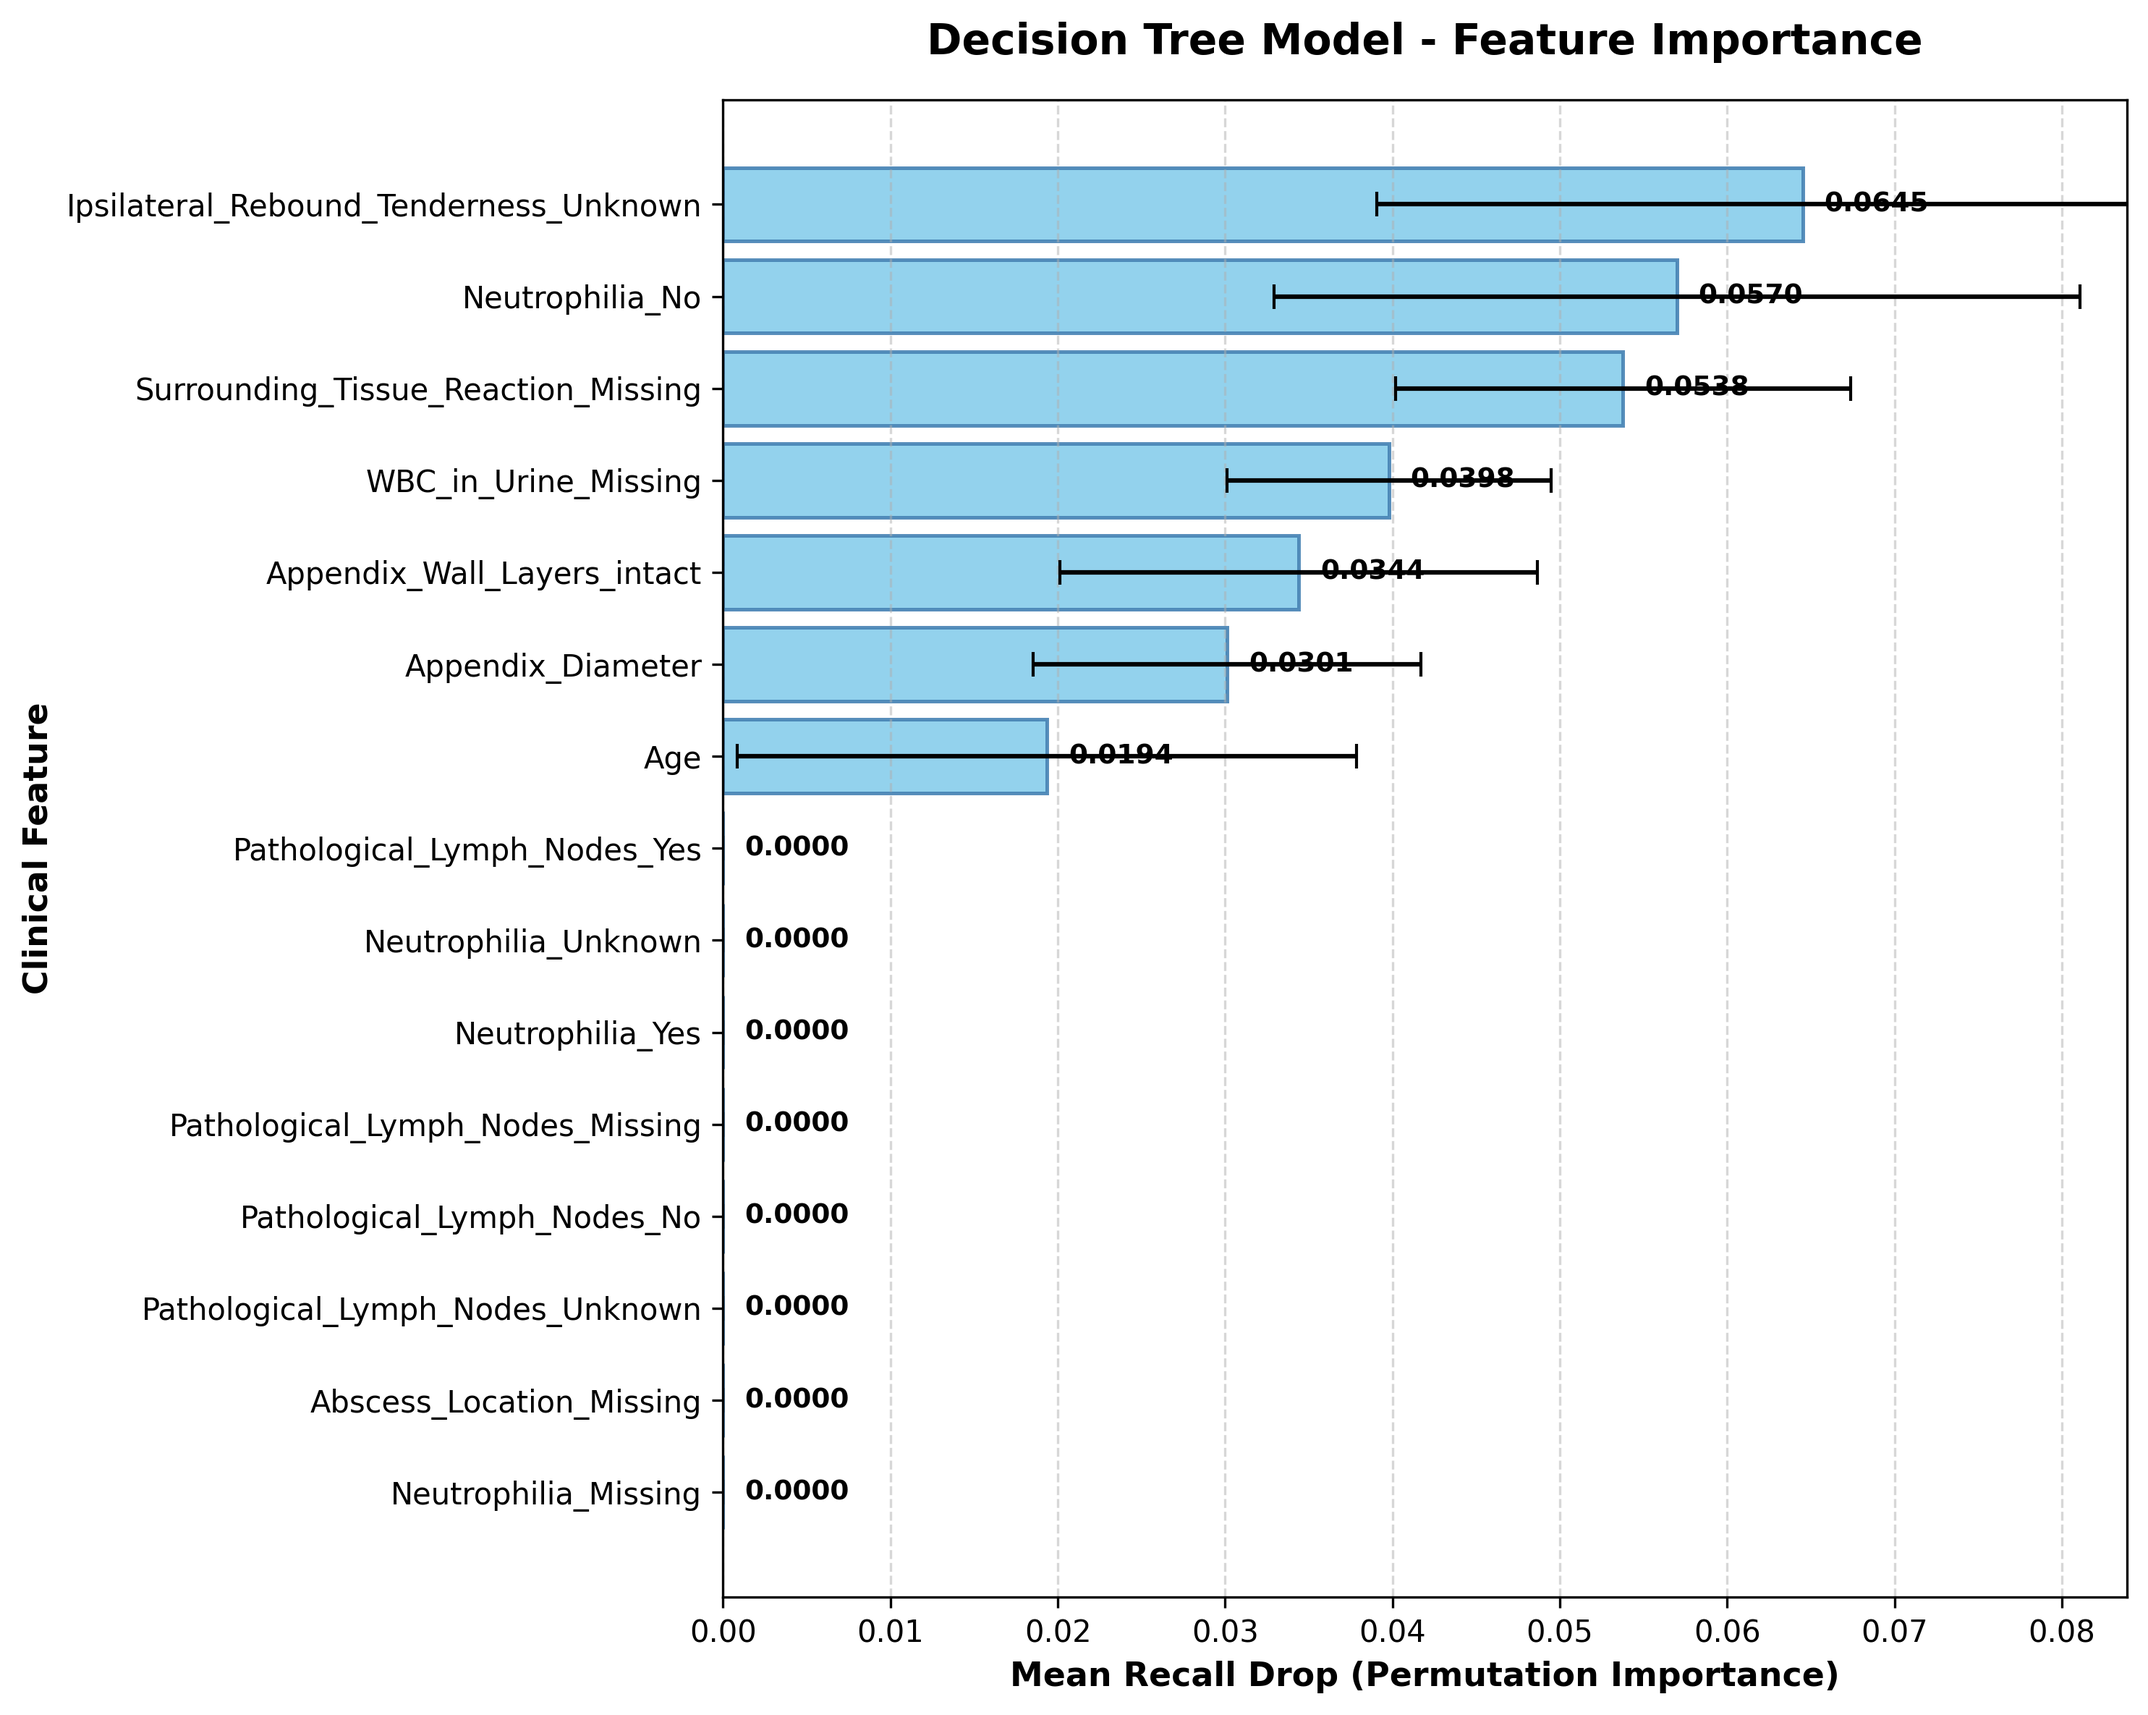
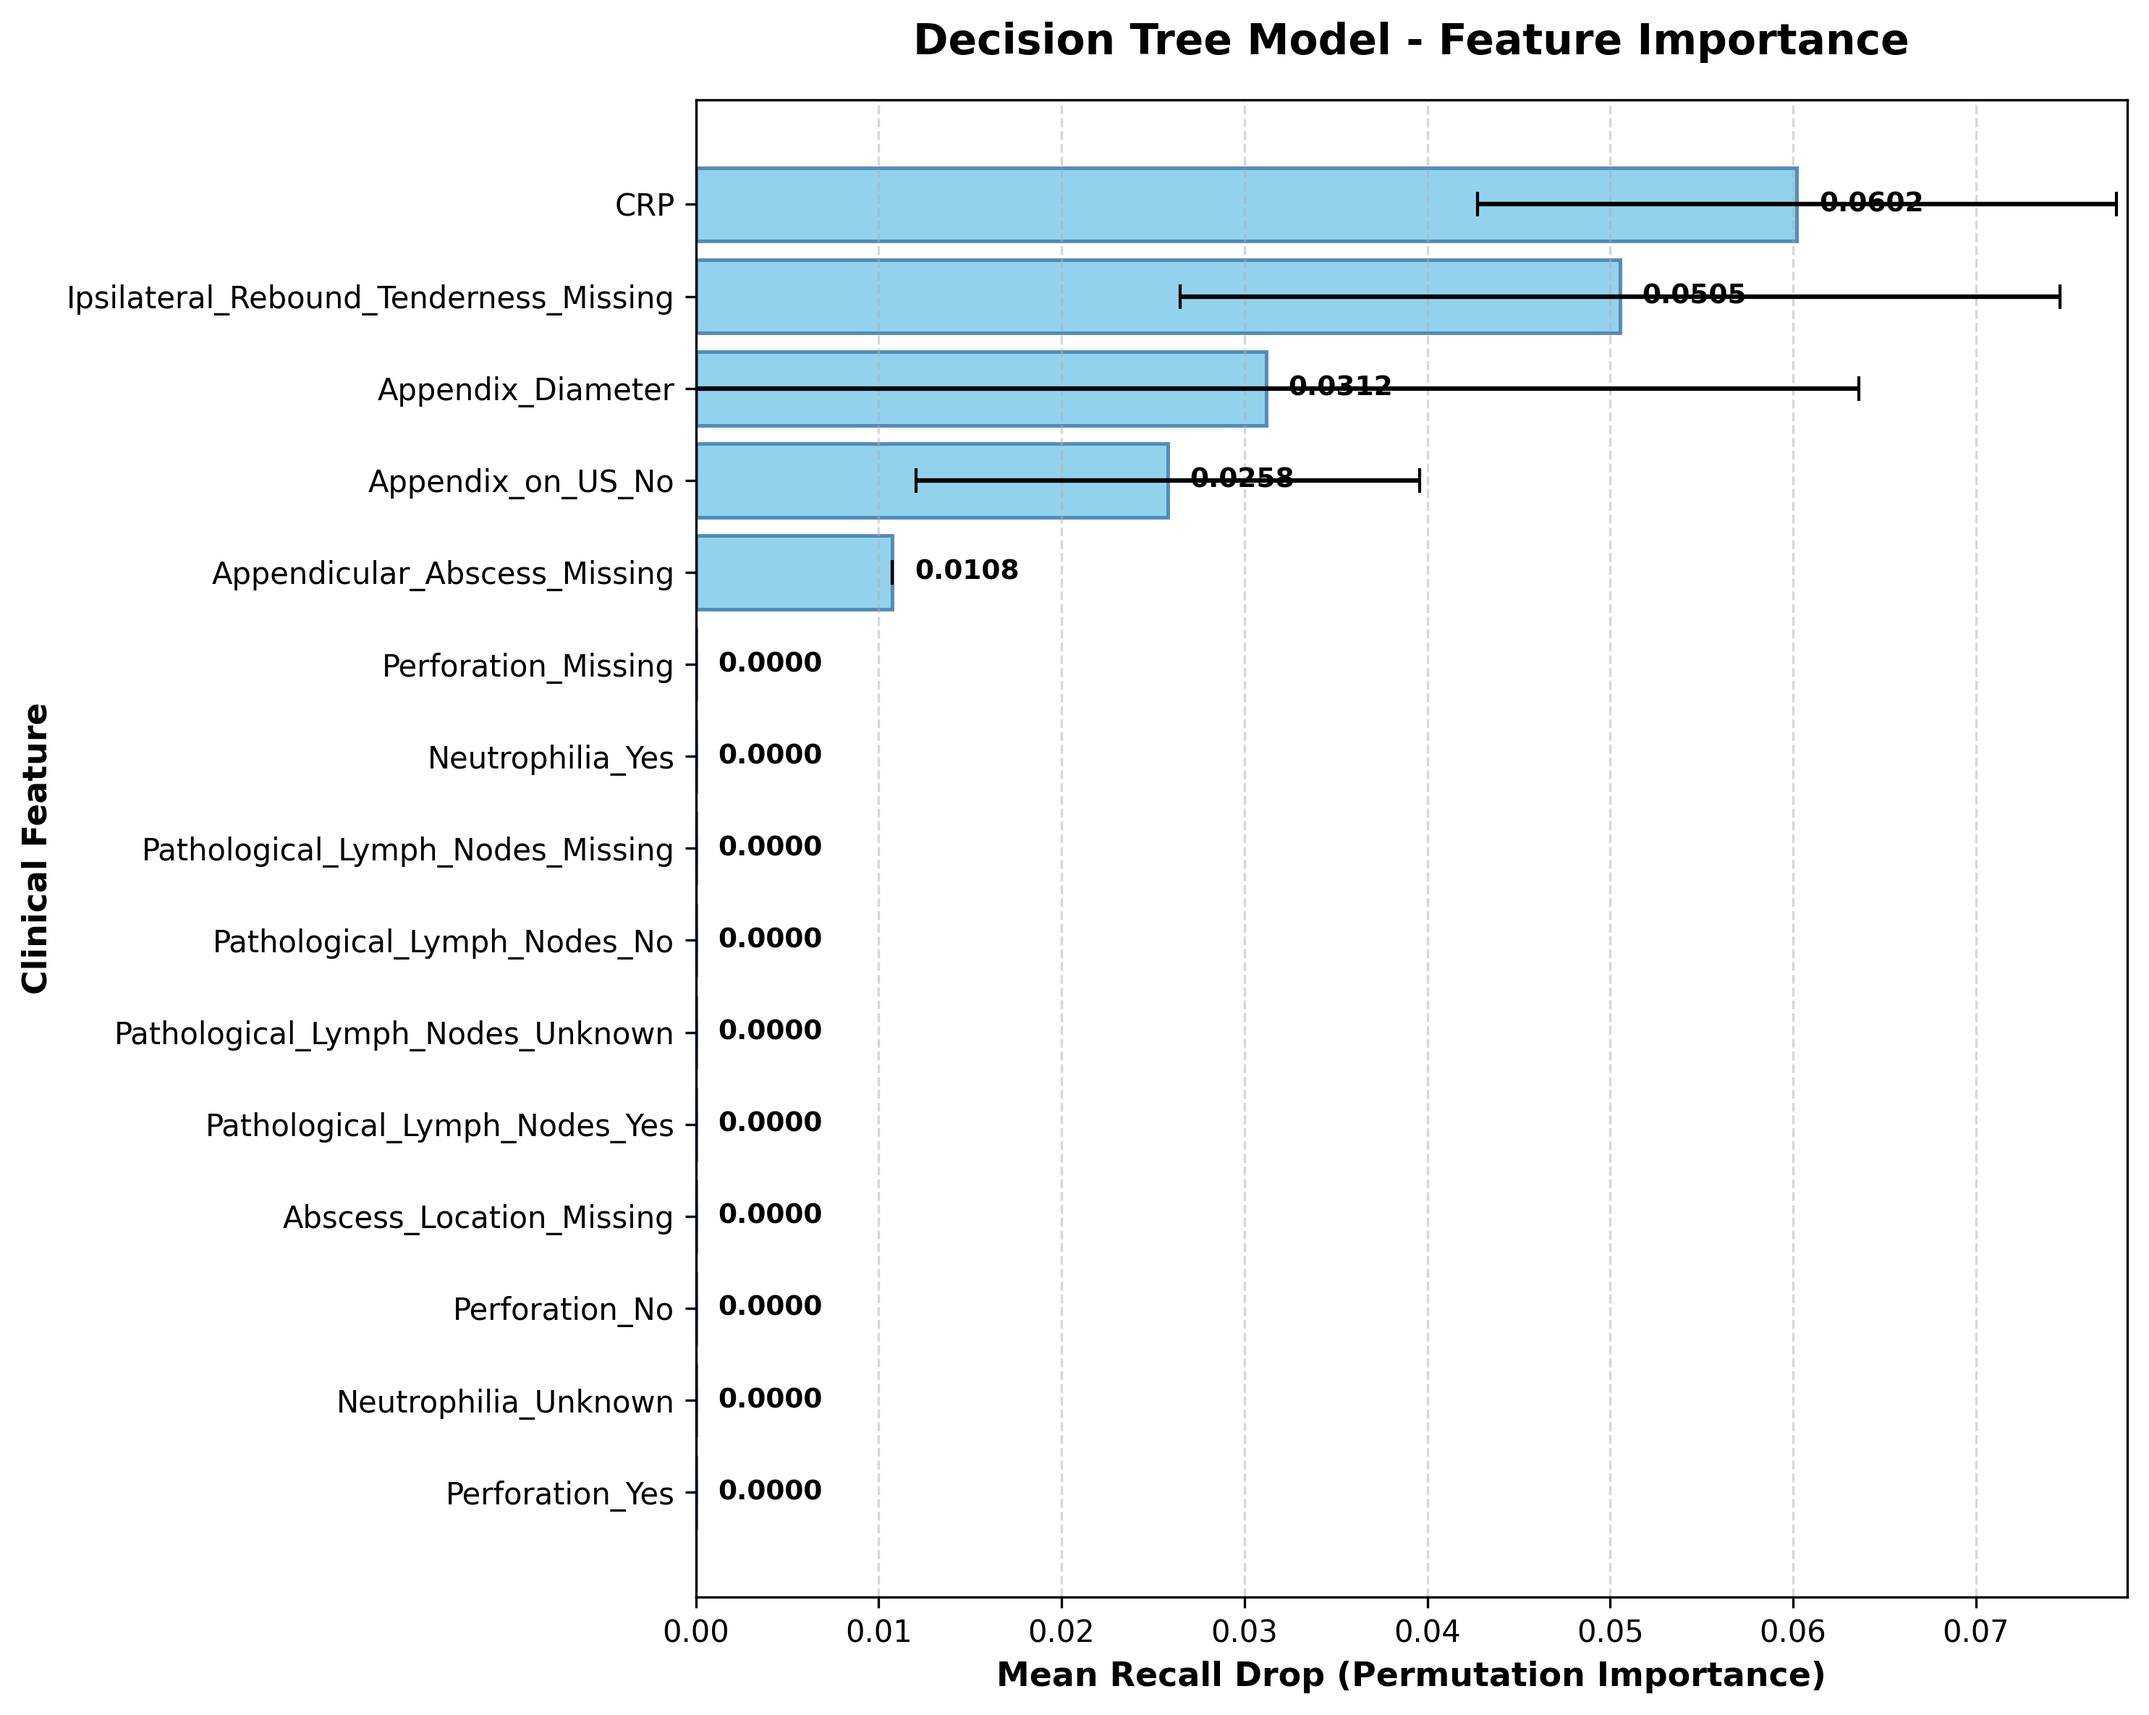
Removed Split Restriction and Increased Max Depth for Decision Trees

diff --git a/05_Decision Trees/decision_tree_model.py b/05_Decision Trees/decision_tree_model.py
@@ -56,10 +56,9 @@ class DecisionTreeModel:
 
         self.model = DecisionTreeClassifier(
             criterion="gini",
-            max_depth=5,
+            max_depth=6,
             min_samples_split=10,
             min_samples_leaf=5,
-            max_features="sqrt",
             class_weight="balanced",
             random_state=SEED
         )
@@ -111,7 +110,7 @@ class DecisionTreeModel:
 
     def save_model(self):
         model_data = {"model": self.model, "feature_names": self.feature_names, "model_type": "decision_tree", "threshold": 0.5}
-        save_path = Path(__file__).resolve().parents[1] / "09_GUI Application" / "saved_models" / "DecisionTree.pkl"
+        save_path = Path(__file__).resolve().parents[1] / "08_GUI Application" / "saved_models" / "DecisionTree.pkl"
         save_path.parent.mkdir(parents=True, exist_ok=True)
         with open(save_path, "wb") as f:
             pickle.dump(model_data, f)

diff --git a/08_GUI Application/run_tests.py b/08_GUI Application/run_tests.py
@@ -87,7 +87,7 @@ def run_automated_tests():
             print(f"  -> Highest Confidence  : {result['highest_model']} ({result['highest_probability']:.2%})")
             print(f"  -> Lab Status          : {'Complete' if result['laboratory_available'] else 'Missing Values'}")
             if not result['laboratory_available']:
-                print(f"     Missing Fields      : {result['missing_laboratory_fields']}")
+                print(f"      Missing Fields     : {result['missing_laboratory_fields']}")
             
             print("  -> Individual Model Breakdown:")
             for model_name, m_res in result["models"].items():

diff --git a/05_Decision Trees/feature_importance.py b/05_Decision Trees/feature_importance.py
@@ -12,7 +12,7 @@ np.random.seed(SEED)
 class DecisionTreeFeatureImportanceAnalyzer:
     def __init__(self):
         self.preprocess_dir = Path(__file__).resolve().parents[1] / "03_Preprocessing Pipeline"
-        self.gui_dir = Path(__file__).resolve().parents[1] / "09_GUI Application" / "saved_models"
+        self.gui_dir = Path(__file__).resolve().parents[1] / "08_GUI Application" / "saved_models"
         self.model = None
         self.feature_names = None
         self.X_test = None
